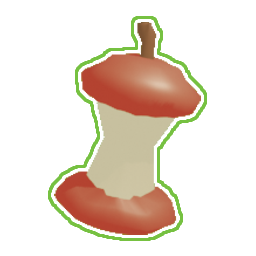
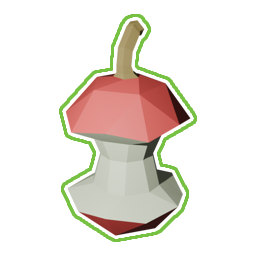
AR4.5-NewIconsAndFixes
- Bumped to v0.4.5
- New mod icon
- Fixed a bug in Leftovers which still acted like a normal health regen bonus instead of applying bonus per depleted skill
- Life Orb is now fully accessible with Config and LookingGlass support
- Misc changes with LookingGlassManager
- Fixed duplication error for Life Orb in README
- Air Balloon, Air Balloon (Broken), Flame Orb, and Leftovers now have new icons

diff --git a/Managers/LookingGlassManager.cs b/Managers/LookingGlassManager.cs
@@ -63,6 +63,7 @@ namespace PokeItems.Managers
             RegisterWeaknessPolicy();
             RegisterQuickClaw();
             RegisterBerryJuice();
+            RegisterLifeOrb();
         }
 
         // Get or create designated item stats
@@ -102,9 +103,9 @@ namespace PokeItems.Managers
             if (stats == null)
                 return;
 
-            stats.descriptions.Add("Regeneration Bonus: ");
+            stats.descriptions.Add("Regeneration Bonus (%HP/s): ");
             stats.valueTypes.Add(ItemStatsDef.ValueType.Healing);
-            stats.measurementUnits.Add(ItemStatsDef.MeasurementUnits.FlatHealing);
+            stats.measurementUnits.Add(ItemStatsDef.MeasurementUnits.PercentHealth);
 
             stats.calculateValuesNew = (luck, stackCount, procChance) =>
             {
@@ -121,7 +122,7 @@ namespace PokeItems.Managers
 
                 return new List<float>
                 {
-                    value
+                    value / 100f
                 };
             };
         }
@@ -413,7 +414,7 @@ namespace PokeItems.Managers
                 return;
 
             stats.descriptions.Add("Max Buff Stacks: ");
-            stats.valueTypes.Add(ItemStatsDef.ValueType.Stack);
+            stats.valueTypes.Add(ItemStatsDef.ValueType.Utility);
             stats.measurementUnits.Add(ItemStatsDef.MeasurementUnits.Number);
 
             stats.calculateValuesNew = (luck, stackCount, procChance) =>
@@ -487,9 +488,9 @@ namespace PokeItems.Managers
             if (stats == null)
                 return;
 
-            stats.descriptions.Add("Regeneration Bonus (%HP): ");
+            stats.descriptions.Add("Regeneration Bonus (%HP/s): ");
             stats.valueTypes.Add(ItemStatsDef.ValueType.Healing);
-            stats.measurementUnits.Add(ItemStatsDef.MeasurementUnits.Percentage);
+            stats.measurementUnits.Add(ItemStatsDef.MeasurementUnits.PercentHealth);
 
             stats.calculateValuesNew = (luck, stackCount, procChance) =>
             {
@@ -503,6 +504,50 @@ namespace PokeItems.Managers
                 return new List<float>
                 {
                     value / 100f
+                };
+            };
+        }
+
+        // Register stats for Life Orb
+        private static void RegisterLifeOrb()
+        {
+            if (LifeOrb.itemDef == null)
+                return;
+
+            ItemStatsDef stats = GetItemStats(LifeOrb.itemDef);
+
+            if (stats == null)
+                return;
+
+            stats.descriptions.Add("HP Sacrifice Amount: ");
+            stats.valueTypes.Add(ItemStatsDef.ValueType.Health);
+            stats.measurementUnits.Add(ItemStatsDef.MeasurementUnits.PercentHealth);
+
+            stats.descriptions.Add("Bonus Damage Amplification: ");
+            stats.valueTypes.Add(ItemStatsDef.ValueType.Damage);
+            stats.measurementUnits.Add(ItemStatsDef.MeasurementUnits.Percentage);
+
+            stats.calculateValuesNew = (luck, stackCount, procChance) =>
+            {
+                float hpSacrifice = ConfigManager.GetFloatValue(
+                    ConfigManager.LifeOrb_HpPercentSacrificePerStack,
+                    LifeOrb.hpPercentSacrificePerStack);
+
+                float totalSacrifice = MathUtility.GetLinearStacking(hpSacrifice, stackCount);
+
+                float bonusAmp = ConfigManager.GetFloatValue(
+                    ConfigManager.LifeOrb_DamageOutputMultPercent,
+                    LifeOrb.damageOutputMultPercent);
+                float bonusExtraAmp = ConfigManager.GetFloatValue(
+                    ConfigManager.LifeOrb_DamageOutputMultPercentPerExtraStack,
+                    LifeOrb.damageOutputMultPercentPerExtraStack);
+
+                float totalBonusAmp = MathUtility.GetLinearWithExtraStacking(bonusAmp, bonusExtraAmp, stackCount);
+
+                return new List<float>
+                {
+                    totalSacrifice / 100f,
+                    totalBonusAmp / 100f
                 };
             };
         }

diff --git a/Items/LifeOrb.cs b/Items/LifeOrb.cs
@@ -78,8 +78,13 @@ namespace PokeItems.Items
                 return;
             }
 
+            // Check if custom values are enabled
+            float hpSacrifice = ConfigManager.GetFloatValue(
+                ConfigManager.LifeOrb_HpPercentSacrificePerStack,
+                hpPercentSacrificePerStack);
+
             // Calculate total sacrifice decimal
-            float sacrificeFraction = MathUtility.GetLinearStacking(hpPercentSacrificePerStack, itemCount, damageInfo.procCoefficient) / 100f;
+            float sacrificeFraction = MathUtility.GetLinearStacking(hpSacrifice, itemCount, damageInfo.procCoefficient) / 100f;
 
             // Determine amount of HP sacrificed
             float sacrificeAmount = attackerBody.maxHealth * sacrificeFraction;
@@ -100,8 +105,16 @@ namespace PokeItems.Items
                 return;
             }
 
+            // Check if custom values are enabled
+            float damageAmp = ConfigManager.GetFloatValue(
+                ConfigManager.LifeOrb_DamageOutputMultPercent,
+                damageOutputMultPercent);
+            float damageExtraAmp = ConfigManager.GetFloatValue(
+                ConfigManager.LifeOrb_DamageOutputMultPercentPerExtraStack,
+                damageOutputMultPercentPerExtraStack);
+
             // Add sacrificed HP directly to attack trigger
-            damageInfo.damage += sacrificeAmount * (MathUtility.GetLinearWithExtraStacking(damageOutputMultPercent, damageOutputMultPercentPerExtraStack, itemCount) / 100f);
+            damageInfo.damage += sacrificeAmount * (MathUtility.GetLinearWithExtraStacking(damageAmp, damageExtraAmp, itemCount) / 100f);
 
             // Apply Life Orb's HP sacrifice (Don't kill the attacker and instead cap at 1 HP)
             attackerBody.healthComponent.health = Mathf.Max(1f, attackerBody.healthComponent.health - sacrificeAmount);

diff --git a/Managers/ConfigManager.cs b/Managers/ConfigManager.cs
@@ -91,6 +91,11 @@ namespace PokeItems.Managers
         public static ConfigEntry<int> BerryJuice_ItemCap;
         public static ConfigEntry<int> BerryJuice_ItemCapPerExtraStack;
 
+        // LIFE ORB
+        public static ConfigEntry<float> LifeOrb_HpPercentSacrificePerStack;
+        public static ConfigEntry<float> LifeOrb_DamageOutputMultPercent;
+        public static ConfigEntry<float> LifeOrb_DamageOutputMultPercentPerExtraStack;
+
         public static void Init()
         {
             if (initialized)
@@ -355,6 +360,29 @@ namespace PokeItems.Managers
                 BerryJuice.itemCapPerExtraStack,
                 "Unusable item capacity per extra stack.",
                 0, 100
+            );
+
+            // LIFE ORB CONFIG
+            LifeOrb_HpPercentSacrificePerStack = BindOption(Config,
+                "Life Orb",
+                "HP Percent Sacrifice Per Stack",
+                LifeOrb.hpPercentSacrificePerStack,
+                "HP (%) to sacrifice as extra damage per stack.",
+                0f, 100f
+            );
+            LifeOrb_DamageOutputMultPercent = BindOption(Config,
+                "Life Orb",
+                "Initial Damage Bonus Amplification",
+                LifeOrb.damageOutputMultPercent,
+                "Initial bonus damage amplification (%).",
+                0f, 1000f
+            );
+            LifeOrb_DamageOutputMultPercentPerExtraStack = BindOption(Config,
+                "Life Orb",
+                "Damage Bonus Amplification Per Extra Stack",
+                LifeOrb.damageOutputMultPercent,
+                "Bonus damage amplification (%) per extra stack.",
+                0f, 1000f
             );
         }
 

diff --git a/Items/Leftovers.cs b/Items/Leftovers.cs
@@ -100,12 +100,25 @@ namespace PokeItems.Items
             if (itemCount <= 0)
                 return;
 
+            // Get the number of skills currently on cooldown
+            if (!cooldownStates.TryGetValue(body, out CooldownState state))
+                return;
+
+            int depletedSkills = state.DepletedSkillCount;
+
+            // Ignore bonus if no skills are depleted
+            if (depletedSkills <= 0)
+                return;
+
             // Check if custom values are enabled
-            float totalRegen = ConfigManager.GetFloatValue(ConfigManager.Leftovers_RegenBonusPercent, regenBonus) * body.maxHealth / 100f;
-            float totalExtraRegen = ConfigManager.GetFloatValue(ConfigManager.Leftovers_RegenBonusPercentPerExtraStack, regenBonusPerExtraStack) * body.maxHealth / 100f;
+            float regenAmount = ConfigManager.GetFloatValue(ConfigManager.Leftovers_RegenBonusPercent, regenBonus);
+            float regenExtraAmount = ConfigManager.GetFloatValue(ConfigManager.Leftovers_RegenBonusPercentPerExtraStack, regenBonusPerExtraStack);
+
+            // Scale regeneration by the number of depleted skills
+            float totalRegen = MathUtility.GetLinearWithExtraStacking(regenAmount, regenExtraAmount, itemCount) * depletedSkills;
 
             // Add HP/s per stack
-            args.baseRegenAdd += MathUtility.GetLinearWithExtraStacking(totalRegen, totalExtraRegen, itemCount);
+            args.baseRegenAdd += totalRegen * body.maxHealth / 100f;
         }
     }
 }

diff --git a/PokeItems.cs b/PokeItems.cs
@@ -24,7 +24,7 @@ namespace PokeItems
         public const string PluginGUID = PluginAuthor + "." + PluginName;
         public const string PluginAuthor = "DTPGStudios";
         public const string PluginName = "PokeItems";
-        public const string PluginVersion = "0.4.4";
+        public const string PluginVersion = "0.4.5";
 
         public static PluginInfo PInfo { get; private set; }
         public static ConfigFile PConfig { get; private set; }
@@ -73,13 +73,14 @@ namespace PokeItems
             WeaknessPolicy.Init();
             QuickClaw.Init();
             BerryJuice.Init();
+            LifeOrb.Init();
 
             isUnfinishedEnabled = ConfigManager.UnfinishedItemsEnabled.Value;
 
             // Unfinished Items
             if (isUnfinishedEnabled)
             {
-                LifeOrb.Init();
+                
             }
 
             // Looking Glass (Optional)

diff --git a/README.md b/README.md
@@ -262,7 +262,6 @@ Items within this section are currently in development and so will include defau
 			<b>LUNAR</b>
 		</td>
 		<td>
-			Deal more damage based on a percentage of max health. <b>2</b>% (+<b>2</b>% per stack) max HP is sacrificed and converted into extra damage. If the sacrifice amount is bigger than the current HP, the holder will survive on 1 HP but the sacrifice amount will be reduced.
 			Deal more damage based on a percentage of max health. <b>2</b>% (+<b>2</b>% per stack) max HP is sacrificed and converted into extra damage. Extra damage output is then amplified by <b>150%</b> (+<b>50%</b> per stack). If the sacrifice amount is bigger than the current HP, the holder will survive on 1 HP but the sacrifice amount will be reduced.
 		</td>
 	</tr>

diff --git a/Thunderstore/CHANGELOG.md b/Thunderstore/CHANGELOG.md
@@ -1,5 +1,4 @@
-## 0.4.3 Hotfix and Rework
-- Alpha Release 4.1
+## 0.4.3 Hotfix and Rework - 0.4.4
 - New models for Air Balloon, Flame Orb, and Leftovers. Icons remain the same.
 - Fixed a major bug in QuickClaw that no longer interact with pickup models but stacks tremendously when attempting.
 - Item Changes:
